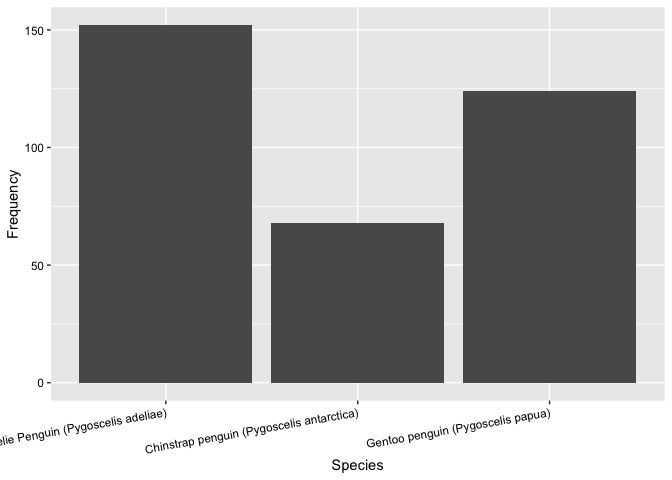
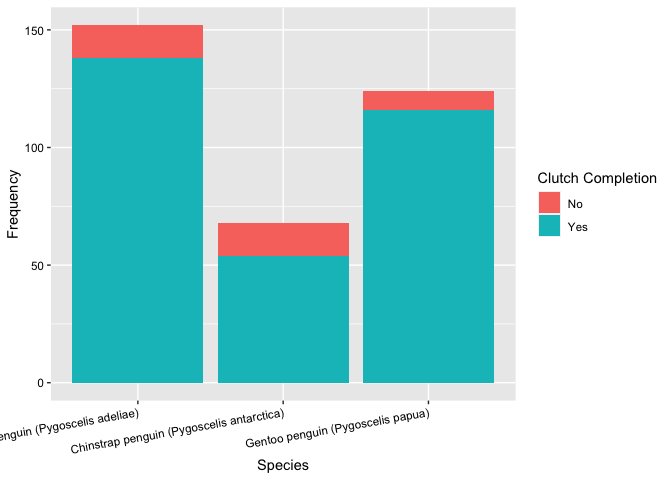
Committed once again

diff --git a/README.md b/README.md
@@ -70,9 +70,9 @@ exploratory data analysis.
 2.  The table’s labels were then renamed so that the dataset could be
     used to create graphs and charts without hassle.
 
-3.The body masses of each species was compared for each. island. This
-was done by graphing the body masses of each species compared to the
-individual islands.
+3.  The body masses of each species was compared for each. island. This
+    was done by graphing the body masses of each species compared to the
+    individual islands.
 
 4.  The number of penguins for each species was determined by creating a
     bar graph.
@@ -80,6 +80,9 @@ individual islands.
 5.  The number of completed clutches and uncompleted clutches were
     examined for each species. This was done by creating a stacked bar
     graph.
+
+6.  Body masses of each species were individually analyzed by the
+    frequency of their occurrence.
 
 ## Results
 
@@ -219,17 +222,6 @@ ggplot(data= penguins_raw2) +
 ![](README_files/figure-gfm/unnamed-chunk-2-1.png)<!-- -->
 
 ``` r
-ggplot(data= penguins_raw2)+ 
-       geom_bar(mapping= aes(x= species))+
-   labs(y= "Frequency", x="Species")+
-   theme(
-      axis.text = element_text(color="black"),
-      axis.text.x = element_text(angle = 10, hjust = 1))
-```
-
-![](README_files/figure-gfm/unnamed-chunk-2-2.png)<!-- -->
-
-``` r
 ggplot(data= penguins_raw2)+
    geom_bar(mapping=aes(x= species, fill= clutch_completion ))+
    labs(x= "Species", y= "Frequency", fill="Clutch Completion")+
@@ -238,7 +230,7 @@ ggplot(data= penguins_raw2)+
    axis.text.x= element_text(angle=10, hjust = 1))
 ```
 
-![](README_files/figure-gfm/unnamed-chunk-2-3.png)<!-- -->
+![](README_files/figure-gfm/unnamed-chunk-2-2.png)<!-- -->
 
 ## Discussion
 
